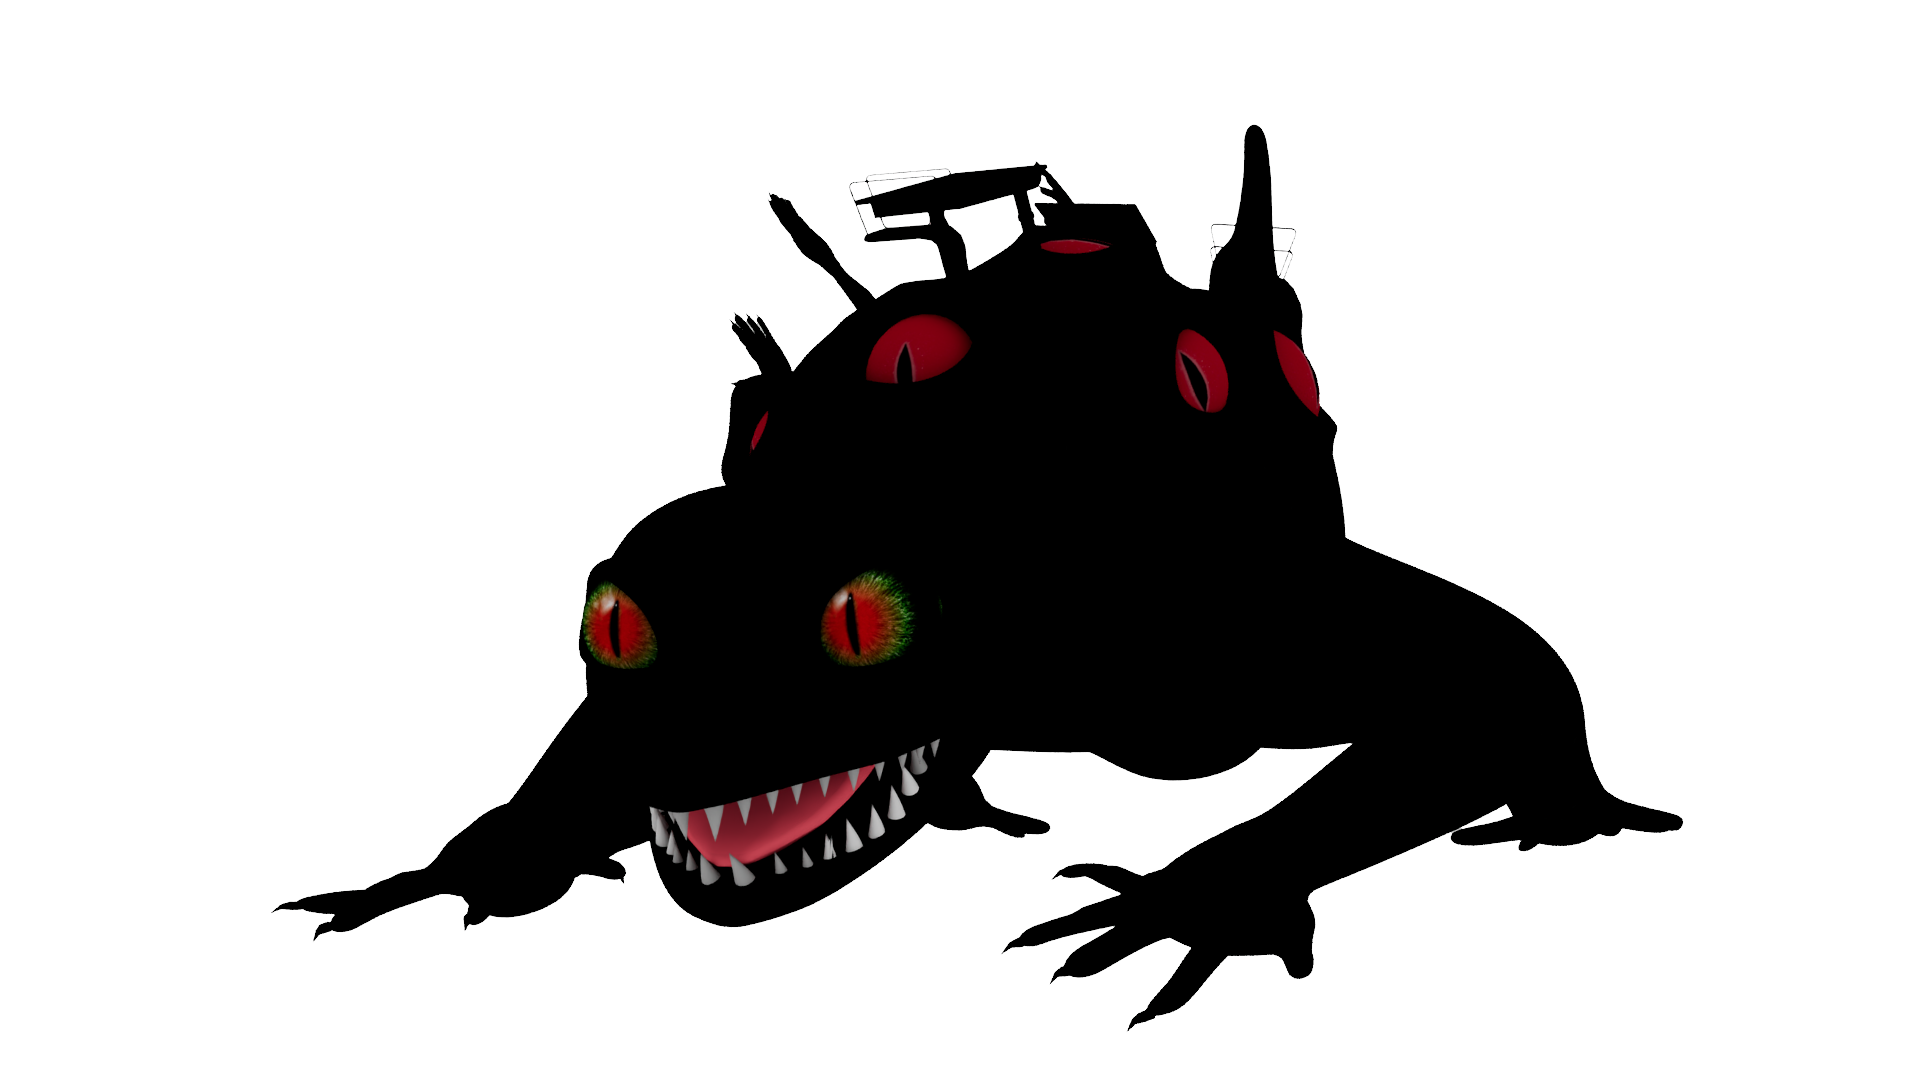
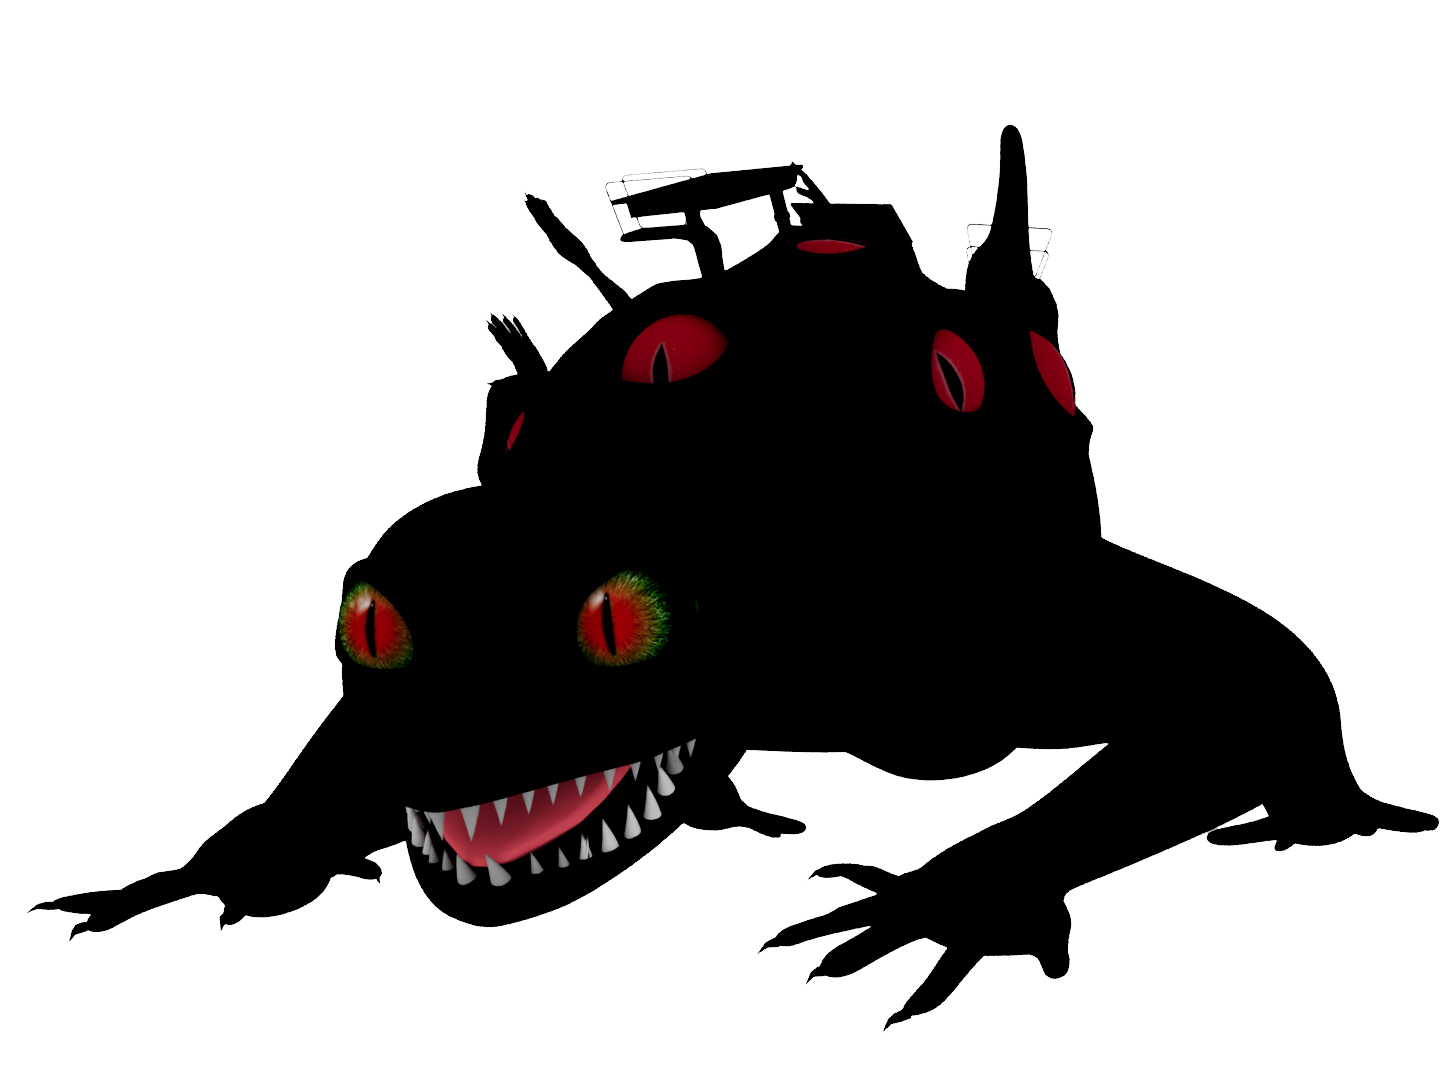
cgjhd

diff --git a/index.md b/index.md
@@ -430,7 +430,7 @@ member:
     <h2>Characters</h2>
     <div class="carousel-container">
       <div class="character-carousel" id="characterCarousel">
-        <div class="character-card"><img src="asset/UUU.png" alt="Character 1"><h3>유</h3><p>유는 게임 속 캐릭터 리리트와 함께 모험을 떠나는 리마인드 라미아의 주인공입니다</p></div>
+        <div class="character-card"><img src="asset/UUUU.png" alt="Character 1"><h3>유</h3><p>유는 게임 속 캐릭터 리리트와 함께 모험을 떠나는 리마인드 라미아의 주인공입니다</p></div>
         <div class="character-card"><img src="asset/lilit.png" alt="Character 2"><h3>리리트</h3><p>고전 게임 라미아 어드벤쳐의 주인공인 리리트는 유가 있는 현실이 위험에 처한걸 느끼고 현실로 나와 유와 함께 모험을 하게됩니다</p></div>
         <div class="character-card"><img src="asset/LIA.png" alt="Character 3"><h3>LIA</h3><p>LIA는 리메이크된 라미아 어드벤쳐 3D를 관리하는 AI였습니다. 어느 순간, LIA가 게임의 통제권을 갖게되고 게임을 플레이한 사람들이 납치되는 이상한 현상이 일어나게 됩니다. </p></div>
         <div class="character-card"><img src="asset/BusMan.png" alt="Character 4"><h3>버스정류장의 아저씨</h3><p>이 NPC는 언뜻보기에 평범해보이지만.. 관리형 AI의 도입으로 인해 게임회사에서 정리해고를 당한 슬픈 사연을 갖고있습니다.</p></div>
